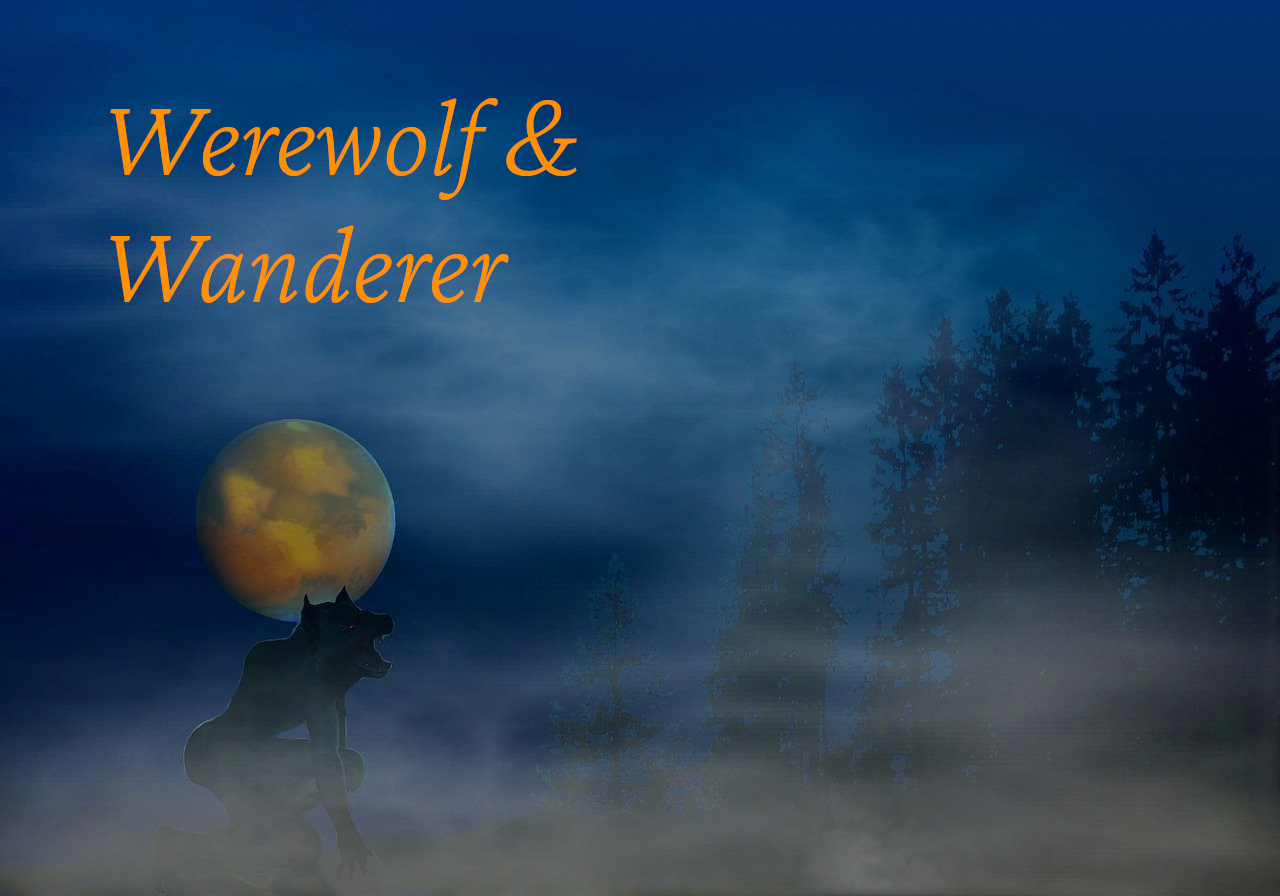
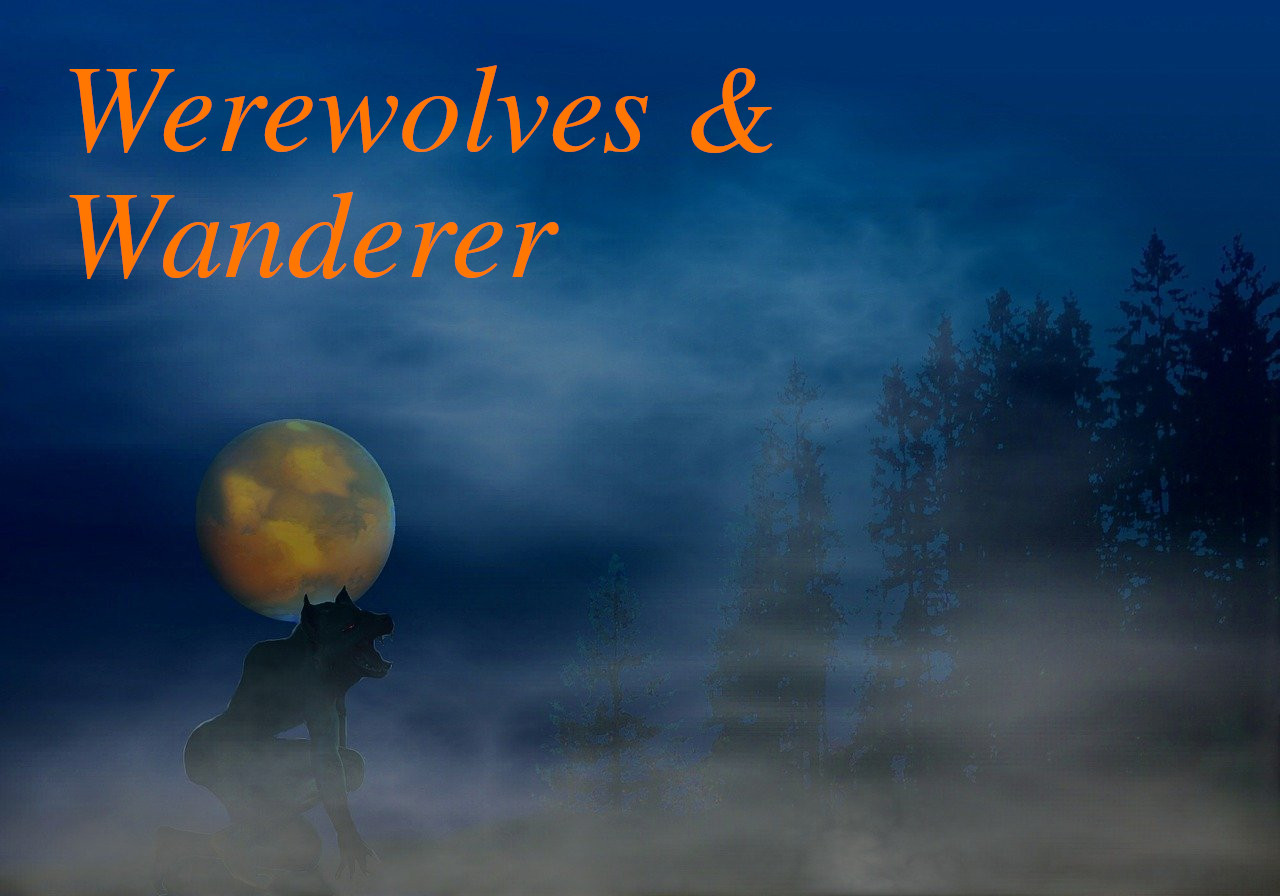
Use correct name \0.o/

Changed region(s): [[0.0625, 0.0625, 0.5, 0.3438], [0.5312, 0.0625, 0.5938, 0.1875]]

diff --git a/internal/game/constants.go b/internal/game/constants.go
@@ -55,27 +55,27 @@ const (
   PROMPT = "What do you want to do?  "
 
   BANNER = `
-m     m mmmmmm mmmmm  mmmmmmm     m  mmmm  m      mmmmmm
-#  #  # #      #   "# #     #  #  # m"  "m #      #     
-" #"# # #mmmmm #mmmm" #mmmmm" #"# # #    # #      #mmmmm
- ## ##" #      #   "m #      ## ##" #    # #      #     
- #   #  #mmmmm #    " #mmmmm #   #   #mm#  #mmmmm #     
-                                                        
-                                                        
-                                   
-                 mm   mm   m mmmm  
-                 ##   #"m  # #   "m
-                #  #  # #m # #    #
-                #mm#  #  # # #    #
-               #    # #   ## #mmm" 
-                                   
-                                   
-                                                        
-m     m   mm   mm   m mmmm   mmmmmm mmmmm  mmmmmm mmmmm 
-#  #  #   ##   #"m  # #   "m #      #   "# #      #   "#
-" #"# #  #  #  # #m # #    # #mmmmm #mmmm" #mmmmm #mmmm"
- ## ##"  #mm#  #  # # #    # #      #   "m #      #   "m
- #   #  #    # #   ## #mmm"  #mmmmm #    " #mmmmm #    "
+m     m mmmmmm mmmmm  mmmmmmm     m  mmmm  m      m    m mmmmmm  mmmm 
+#  #  # #      #   "# #     #  #  # m"  "m #      "m  m" #      #"   "
+" #"# # #mmmmm #mmmm" #mmmmm" #"# # #    # #       #  #  #mmmmm "#mmm 
+ ## ##" #      #   "m #      ## ##" #    # #       "mm"  #          "#
+ #   #  #mmmmm #    " #mmmmm #   #   #mm#  #mmmmm   ##   #mmmmm "mmm#"
+                                                                      
+                                                                      
+                                          
+                                        # 
+                       mmm   m mm    mmm# 
+                      "   #  #"  #  #" "# 
+                      m"""#  #   #  #   # 
+                      "mm"#  #   #  "#m## 
+                                          
+                                          
+                                                               
+       m     m   mm   mm   m mmmm   mmmmmm mmmmm  mmmmmm mmmmm 
+       #  #  #   ##   #"m  # #   "m #      #   "# #      #   "#
+       " #"# #  #  #  # #m # #    # #mmmmm #mmmm" #mmmmm #mmmm"
+        ## ##"  #mm#  #  # # #    # #      #   "m #      #   "m
+        #   #  #    # #   ## #mmm"  #mmmmm #    " #mmmmm #    "
 
 
 `

diff --git a/README.md b/README.md
@@ -1,4 +1,4 @@
-# werewolf-and-wanderer
+# werewolves-and-wanderer
 
 <img src="img/w-and-w.jpg" style="width: auto" alt="Werewolf at night" />
 
@@ -19,8 +19,8 @@ period.
 How to build and play the game:
 
 ```bash
-git clone git@github.com:A-725-K/werewolf-and-wanderer.git
-cd werewolf-and-wanderer
+git clone git@github.com:A-725-K/werewolves-and-wanderer.git
+cd werewolves-and-wanderer
 just build
 just play
 ```
